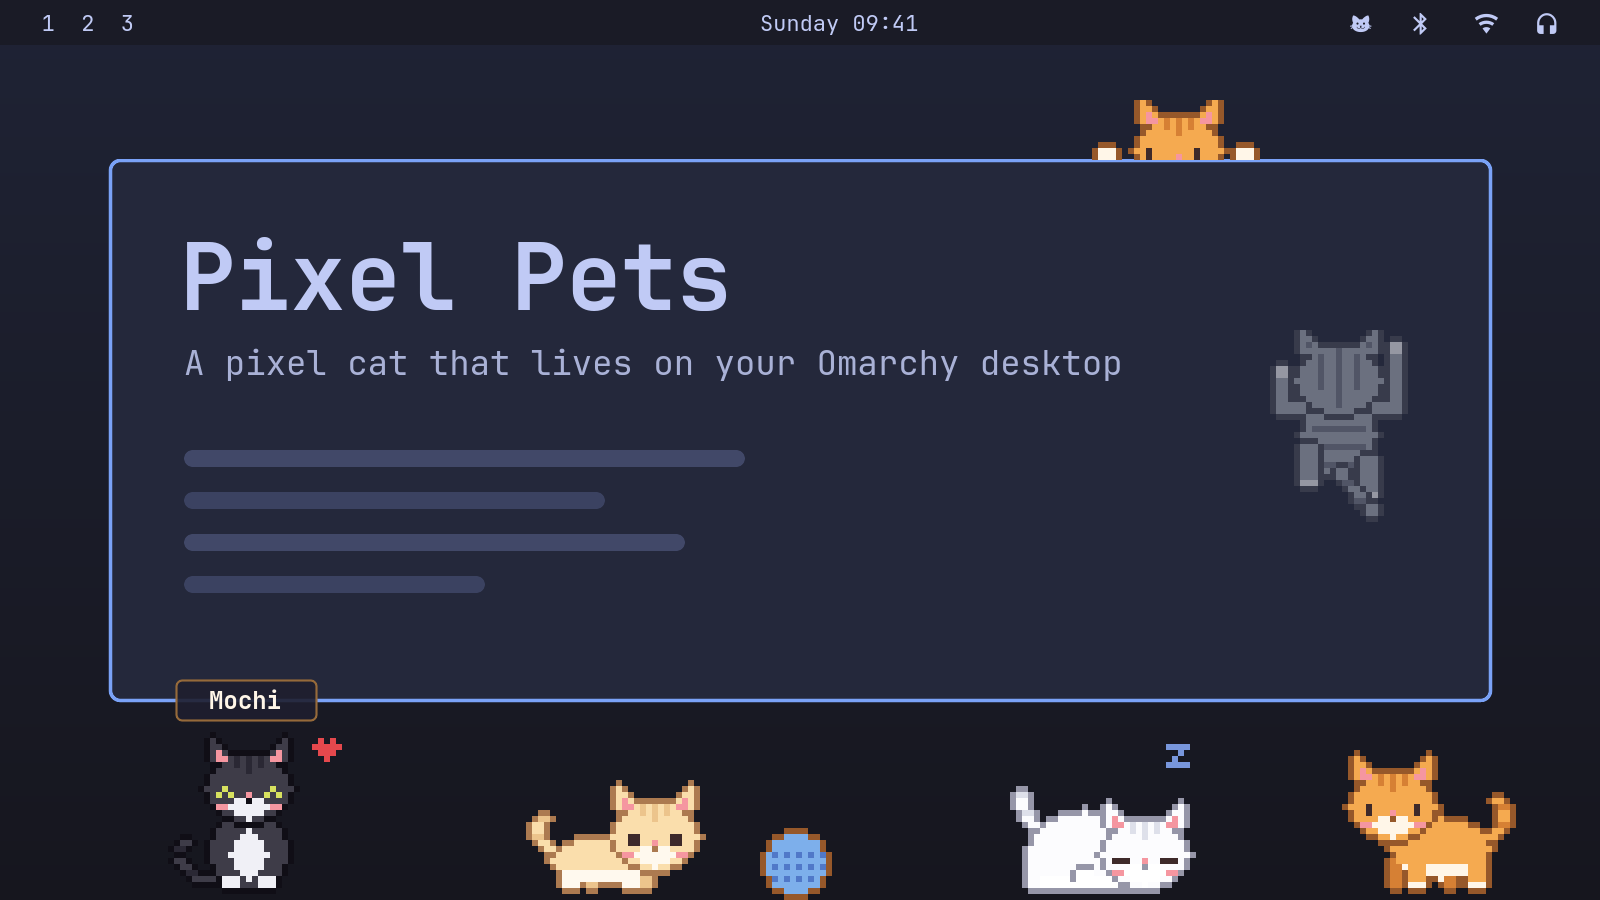
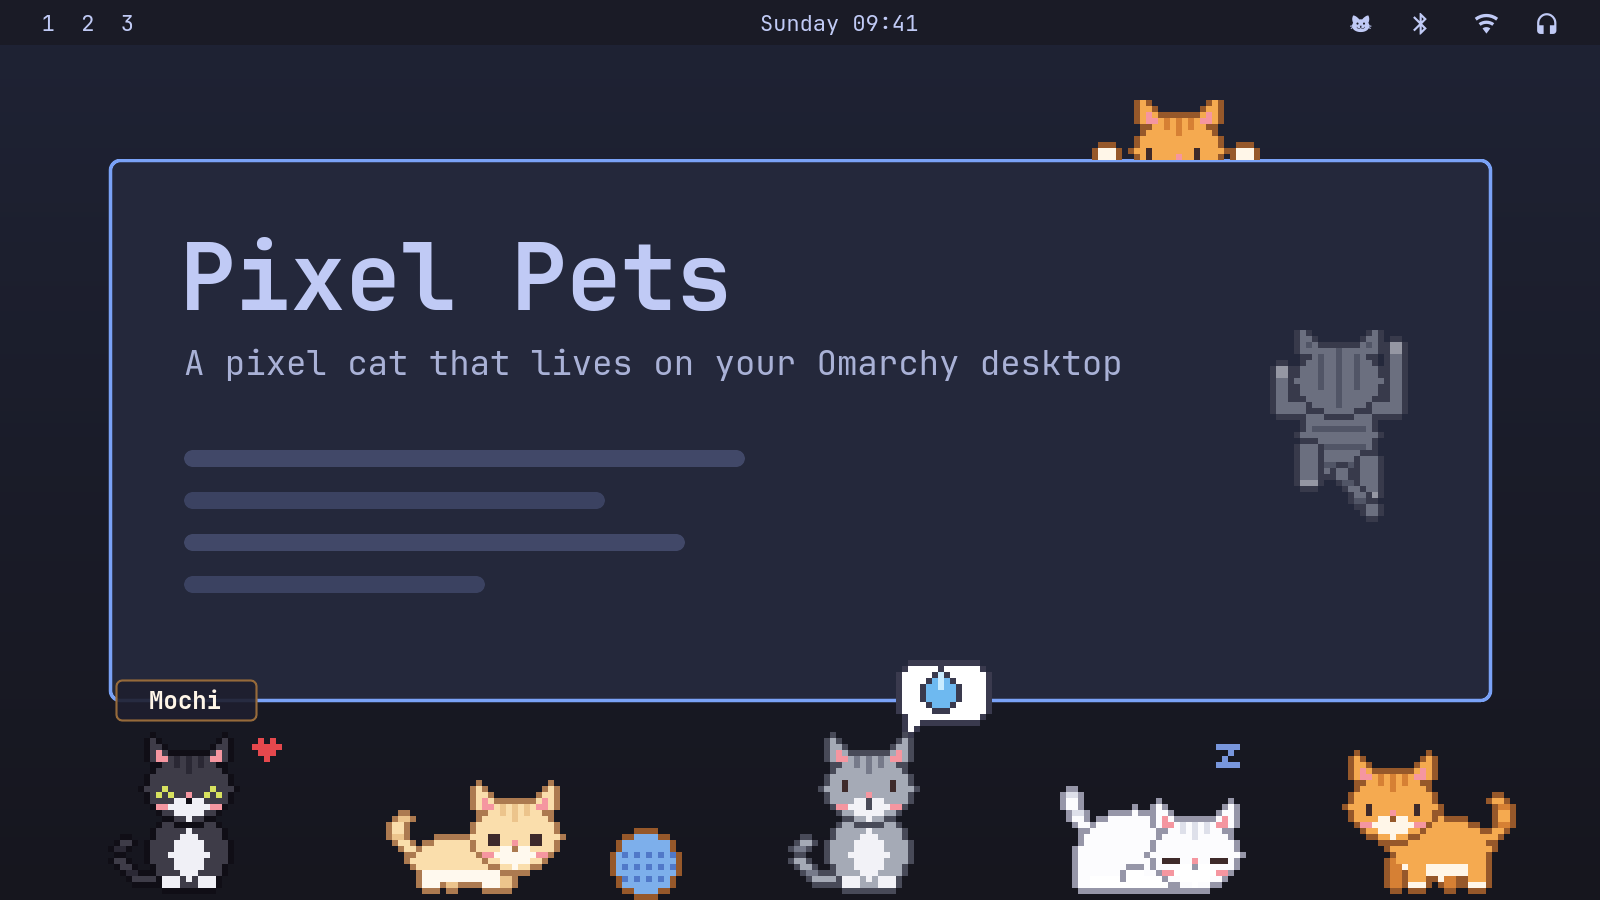
Preview: show a care reminder

diff --git a/tools/make_preview.py b/tools/make_preview.py
@@ -10,7 +10,7 @@ FONT = "JetBrainsMono-NF-Bold"
 FONT_R = "JetBrainsMono-NF-Regular"
 WIN = (110, 160, 1490, 700)   # mock window: left, top, right, bottom
 ROWS = {"idle": 0, "walk": 1, "sit": 2, "sleep": 3, "petted": 4, "climb": 7, "peek": 8,
-        "crouch": 9, "bat": 11, "yarn": 15}
+        "crouch": 9, "bat": 11, "yarn": 15, "ask": 16, "bubble": 19}
 
 def frame(coat, row, col=0, w=32, h=32, flip=False, alpha=1.0):
     args = [f"(", f"{REPO}/sprites/cat-{coat}.png", "-crop", f"{w}x{h}+{col * 32}+{ROWS[row] * 32}", "+repage",
@@ -46,14 +46,17 @@ cmd += place(frame("orange", "peek", 1, h=10), 1080, t - 10 * K)
 cmd += place(frame("grey", "climb", 1, alpha=0.55), 1240, 330)
 # floor
 floor = H - 32 * K + 6
-cmd += place(frame("black", "petted", 1), 150, floor)
-tag_x, tag_y = 150 + 16 * K - 70, floor - 34
+cmd += place(frame("black", "petted", 1), 90, floor)
+tag_x, tag_y = 90 + 16 * K - 70, floor - 34
 cmd += ["-fill", "#1e1e2ee6", "-stroke", "#966a3a", "-strokewidth", "2",
         "-draw", f"roundrectangle {tag_x},{tag_y} {tag_x + 140},{tag_y + 40} 6,6", "-stroke", "none",
         "-font", FONT, "-pointsize", "24", "-fill", "#fff6e8", "-annotate", f"+{tag_x + 33}+{tag_y + 29}", "Mochi"]
-cmd += place(frame("cream", "crouch", 0), 520, floor)
-cmd += place(frame("orange", "yarn", 0, w=12, h=12), 760, H - 12 * K)
-cmd += place(frame("white", "sleep", 1), 1010, floor)
+cmd += place(frame("cream", "crouch", 0), 380, floor)
+cmd += place(frame("orange", "yarn", 0, w=12, h=12), 610, H - 12 * K)
+# asking for water: care reminder bubble by her head
+cmd += place(frame("grey", "ask", 1), 770, floor)
+cmd += place(frame("grey", "bubble", 0, w=16, h=14), 770 + 21 * K, floor - 9 * K)
+cmd += place(frame("white", "sleep", 1), 1060, floor)
 cmd += place(frame("orange", "walk", 2, flip=True), 1330, floor)
 cmd += [OUT]
 subprocess.run(cmd, check=True)
